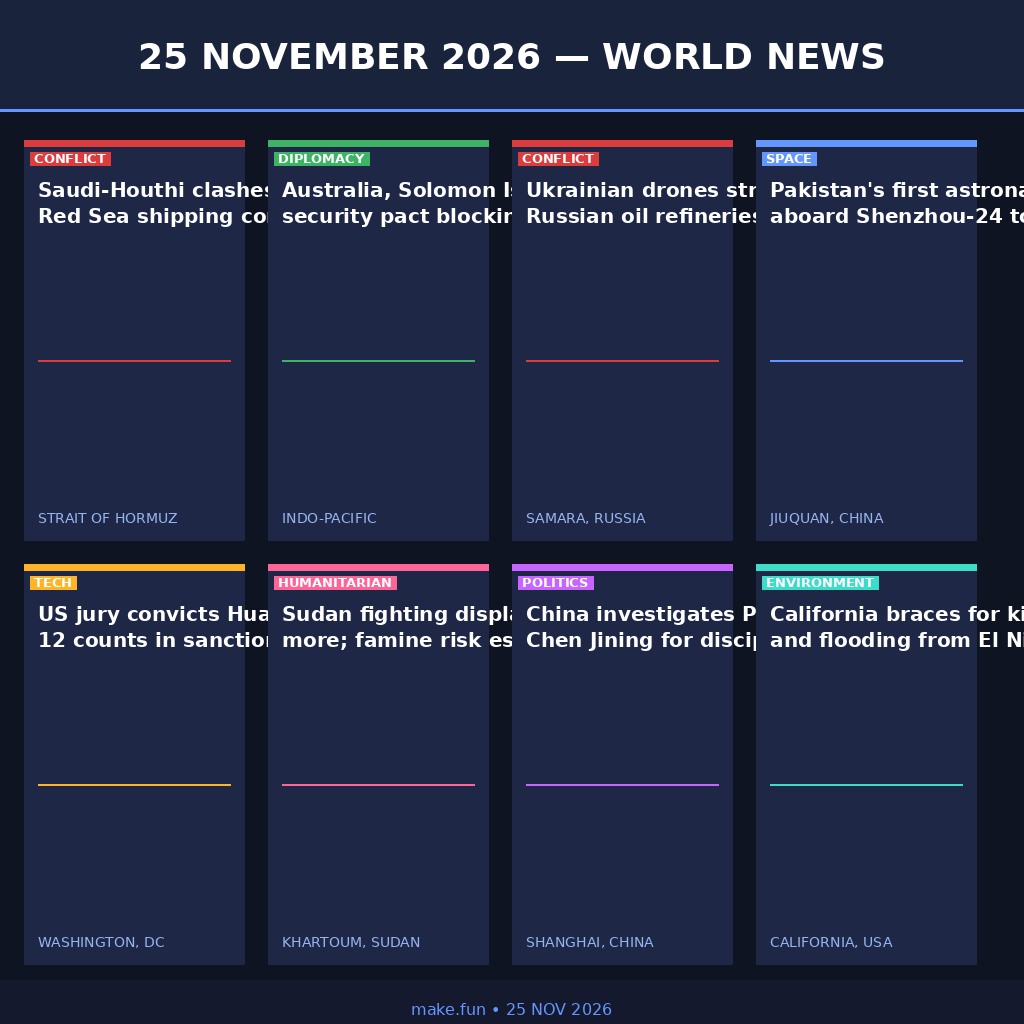
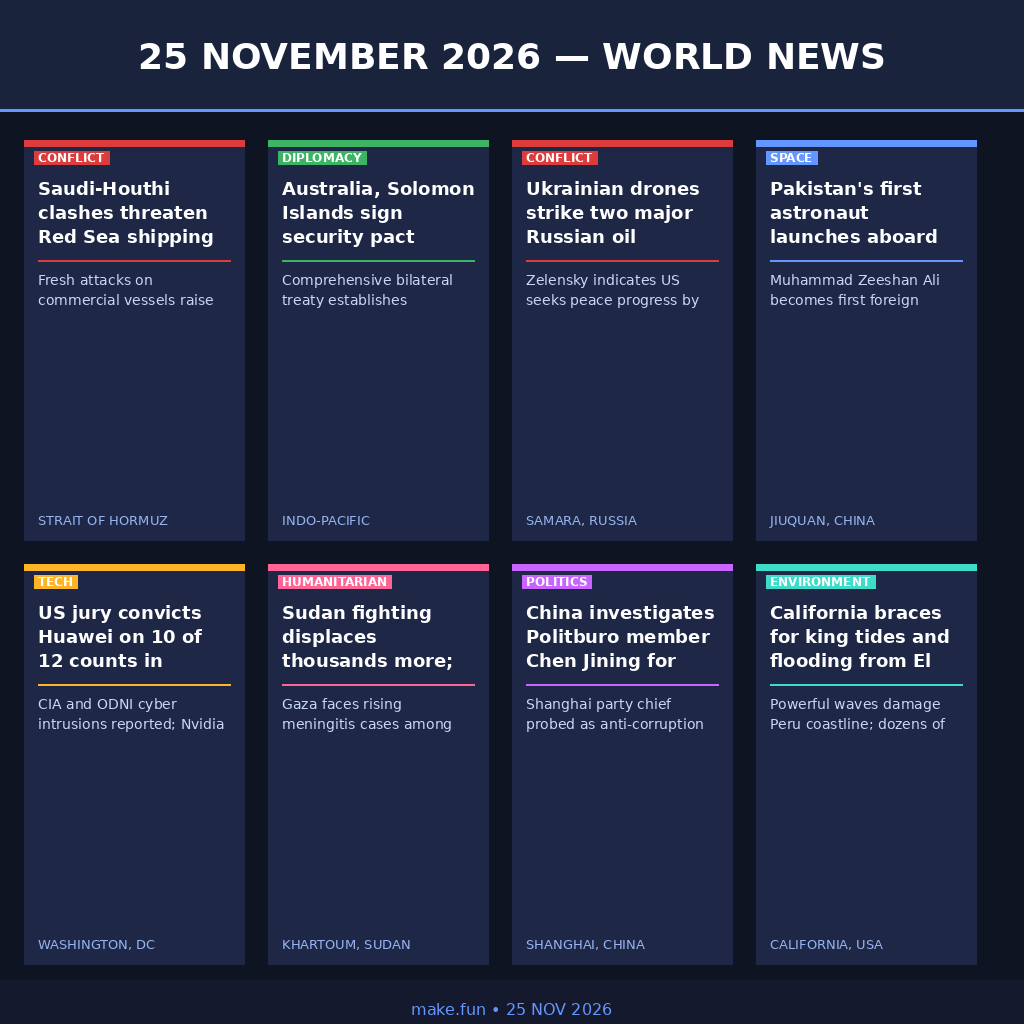
Fix: main.ts ES module __dirname; render_news.py word-wrap headlines + summaries

diff --git a/main.ts b/main.ts
@@ -3,10 +3,11 @@
 
 import { copyFileSync } from 'node:fs';
 import { join } from 'node:path';
+import { fileURLToPath } from 'node:url';
 
+const SRC_PATH = fileURLToPath(new URL('./entry.png', import.meta.url));
 const OUT_DIR = process.env.MAKEFUN_OUTPUT_DIR ?? '/output';
 const OUT_PATH = join(OUT_DIR, 'entry.png');
-const SRC_PATH = join(__dirname, 'entry.png');
 
 function main(): void {
   copyFileSync(SRC_PATH, OUT_PATH);

diff --git a/render_news.py b/render_news.py
@@ -7,6 +7,7 @@ Uses DejaVu Sans font. Deterministic output.
 from PIL import Image, ImageDraw, ImageFont
 import os
 import hashlib
+import textwrap
 
 WIDTH = 1024
 HEIGHT = 1024
@@ -22,57 +23,73 @@ TEXT_MUTED = (150, 180, 240)
 ATTRIB_BG = (20, 25, 45)
 ACCENT_BLUE = (100, 150, 255)
 
-# News stories with factual short headlines
+# News stories with factual headlines and short summaries
 STORIES = [
     {
-        "headline": "Saudi-Houthi clashes threaten\nRed Sea shipping corridor",
+        "headline": "Saudi-Houthi clashes threaten Red Sea shipping corridor",
+        "summary": "Fresh attacks on commercial vessels raise energy security concerns; Saudi-Houthi tensions threaten the vital Red Sea corridor.",
         "category": "CONFLICT",
         "location": "STRAIT OF HORMUZ",
         "accent": (220, 60, 60),
     },
     {
-        "headline": "Australia, Solomon Islands sign\nsecurity pact blocking foreign bases",
+        "headline": "Australia, Solomon Islands sign security pact blocking foreign bases",
+        "summary": "Comprehensive bilateral treaty establishes Canberra as principal security partner, prohibiting foreign military bases in the islands.",
         "category": "DIPLOMACY",
         "location": "INDO-PACIFIC",
         "accent": (60, 180, 100),
     },
     {
-        "headline": "Ukrainian drones strike two major\nRussian oil refineries in Samara",
+        "headline": "Ukrainian drones strike two major Russian oil refineries in Samara",
+        "summary": "Zelensky indicates US seeks peace progress by January; EU delegation to join talks as energy infrastructure hit.",
         "category": "CONFLICT",
         "location": "SAMARA, RUSSIA",
         "accent": (220, 60, 60),
     },
     {
-        "headline": "Pakistan's first astronaut launches\naboard Shenzhou-24 to Tiangong",
+        "headline": "Pakistan's first astronaut launches aboard Shenzhou-24 to Tiangong",
+        "summary": "Muhammad Zeeshan Ali becomes first foreign astronaut in China's crewed space programme, marking historic cooperation.",
         "category": "SPACE",
         "location": "JIUQUAN, CHINA",
         "accent": (100, 150, 255),
     },
     {
-        "headline": "US jury convicts Huawei on 10 of\n12 counts in sanctions case",
+        "headline": "US jury convicts Huawei on 10 of 12 counts in sanctions case",
+        "summary": "CIA and ODNI cyber intrusions reported; Nvidia leadership return sparks export-control controversy amid tech tensions.",
         "category": "TECH",
         "location": "WASHINGTON, DC",
         "accent": (255, 180, 40),
     },
     {
-        "headline": "Sudan fighting displaces thousands\nmore; famine risk escalates",
+        "headline": "Sudan fighting displaces thousands more; famine risk escalates",
+        "summary": "Gaza faces rising meningitis cases among infants; Yemen prices surge amid renewed hostilities worsening humanitarian crisis.",
         "category": "HUMANITARIAN",
         "location": "KHARTOUM, SUDAN",
         "accent": (255, 100, 150),
     },
     {
-        "headline": "China investigates Politburo member\nChen Jining for discipline violations",
+        "headline": "China investigates Politburo member Chen Jining for discipline violations",
+        "summary": "Shanghai party chief probed as anti-corruption drive continues; signals shifting power dynamics ahead of leadership meetings.",
         "category": "POLITICS",
         "location": "SHANGHAI, CHINA",
         "accent": (200, 100, 255),
     },
     {
-        "headline": "California braces for king tides\nand flooding from El Nino surge",
+        "headline": "California braces for king tides and flooding from El Nino surge",
+        "summary": "Powerful waves damage Peru coastline; dozens of ports closed as climate patterns intensify coastal flood risks.",
         "category": "ENVIRONMENT",
         "location": "CALIFORNIA, USA",
         "accent": (60, 220, 200),
     },
 ]
+
+# Card dimensions
+COL_WIDTH = 220
+ROW_HEIGHT = 400
+GAP = 24
+START_Y = 140
+CARD_PADDING = 14
+HEADLINE_MAX_WIDTH = COL_WIDTH - 2 * CARD_PADDING  # 192px
 
 
 def load_fonts():
@@ -81,25 +98,50 @@ def load_fonts():
     fonts = {}
     try:
         fonts["title"] = ImageFont.truetype(os.path.join(font_dir, "DejaVuSans-Bold.ttf"), 36)
-        fonts["headline"] = ImageFont.truetype(os.path.join(font_dir, "DejaVuSans-Bold.ttf"), 20)
-        fonts["category"] = ImageFont.truetype(os.path.join(font_dir, "DejaVuSans-Bold.ttf"), 13)
-        fonts["location"] = ImageFont.truetype(os.path.join(font_dir, "DejaVuSans.ttf"), 14)
+        fonts["headline"] = ImageFont.truetype(os.path.join(font_dir, "DejaVuSans-Bold.ttf"), 18)
+        fonts["summary"] = ImageFont.truetype(os.path.join(font_dir, "DejaVuSans.ttf"), 14)
+        fonts["category"] = ImageFont.truetype(os.path.join(font_dir, "DejaVuSans-Bold.ttf"), 12)
+        fonts["location"] = ImageFont.truetype(os.path.join(font_dir, "DejaVuSans.ttf"), 13)
         fonts["attrib"] = ImageFont.truetype(os.path.join(font_dir, "DejaVuSans.ttf"), 16)
     except OSError:
         # Fallback
         fonts["title"] = ImageFont.load_default()
         fonts["headline"] = ImageFont.load_default()
+        fonts["summary"] = ImageFont.load_default()
         fonts["category"] = ImageFont.load_default()
         fonts["location"] = ImageFont.load_default()
         fonts["attrib"] = ImageFont.load_default()
     return fonts
 
 
-def draw_card(draw, fonts, x0, y0, col_width, row_height, story):
-    """Draw a single news card."""
-    x1 = x0 + col_width
-    y1 = y0 + row_height
+def wrap_text(draw, text, font, max_width):
+    """Wrap text to fit within max_width, return list of lines."""
+    words = text.split()
+    lines = []
+    current_line = []
+
+    for word in words:
+        test_line = " ".join(current_line + [word])
+        bbox = draw.textbbox((0, 0), test_line, font=font)
+        if bbox[2] - bbox[0] <= max_width:
+            current_line.append(word)
+        else:
+            if current_line:
+                lines.append(" ".join(current_line))
+            current_line = [word]
+
+    if current_line:
+        lines.append(" ".join(current_line))
+
+    return lines
+
+
+def draw_card(draw, fonts, x0, y0, story):
+    """Draw a single news card with wrapped headline and summary."""
+    x1 = x0 + COL_WIDTH
+    y1 = y0 + ROW_HEIGHT
     accent = story["accent"]
+    max_text_width = HEADLINE_MAX_WIDTH
 
     # Card background
     draw.rectangle([x0, y0, x1, y1], fill=CARD_BG)
@@ -108,24 +150,33 @@ def draw_card(draw, fonts, x0, y0, col_width, row_height, story):
     draw.rectangle([x0, y0, x1, y0 + 6], fill=accent)
 
     # Category label
-    cat_bbox = draw.textbbox((x0 + 10, y0 + 10), story["category"], font=fonts["category"])
+    cat_text = story["category"]
+    cat_bbox = draw.textbbox((x0 + CARD_PADDING, y0 + 10), cat_text, font=fonts["category"])
     draw.rectangle([cat_bbox[0] - 4, cat_bbox[1] - 2, cat_bbox[2] + 4, cat_bbox[3] + 2],
                    fill=accent)
-    draw.text((x0 + 10, y0 + 10), story["category"], font=fonts["category"], fill=TEXT_WHITE)
+    draw.text((x0 + CARD_PADDING, y0 + 10), cat_text, font=fonts["category"], fill=TEXT_WHITE)
 
-    # Headline (multi-line)
-    headline = story["headline"]
+    # Headline (wrapped)
+    headline_lines = wrap_text(draw, story["headline"], fonts["headline"], max_text_width)
     y_text = y0 + 38
-    for line in headline.split("\n"):
-        draw.text((x0 + 14, y_text), line, font=fonts["headline"], fill=TEXT_WHITE)
-        y_text += 26
+    for line in headline_lines[:3]:  # Max 3 lines for headline
+        draw.text((x0 + CARD_PADDING, y_text), line, font=fonts["headline"], fill=TEXT_WHITE)
+        y_text += 24
 
     # Visual separator line
-    draw.line([(x0 + 14, y0 + 220), (x1 - 14, y0 + 220)], fill=accent, width=2)
+    sep_y = y0 + 120
+    draw.line([(x0 + CARD_PADDING, sep_y), (x1 - CARD_PADDING, sep_y)], fill=accent, width=2)
+
+    # Summary (wrapped, 1-2 lines in middle space)
+    summary_lines = wrap_text(draw, story["summary"], fonts["summary"], max_text_width)
+    y_summary = sep_y + 12
+    for line in summary_lines[:2]:  # Max 2 lines for summary
+        draw.text((x0 + CARD_PADDING, y_summary), line, font=fonts["summary"], fill=TEXT_LIGHT)
+        y_summary += 20
 
     # Location tag at bottom
-    loc_y = y1 - 30
-    draw.text((x0 + 14, loc_y), story["location"], font=fonts["location"],
+    loc_y = y1 - 28
+    draw.text((x0 + CARD_PADDING, loc_y), story["location"], font=fonts["location"],
               fill=TEXT_MUTED)
 
 
@@ -146,20 +197,15 @@ def main():
     draw.line([(0, 110), (WIDTH, 110)], fill=DIVIDER_COLOR, width=3)
 
     # Grid: 4 cols x 2 rows
-    col_width = 220
-    row_height = 400
-    start_y = 140
-    gap = 24
-
     for row in range(2):
         for col in range(4):
             idx = row * 4 + col
             if idx >= len(STORIES):
                 continue
             story = STORIES[idx]
-            x0 = col * (col_width + gap) + gap
-            y0 = start_y + row * (row_height + gap)
-            draw_card(draw, fonts, x0, y0, col_width, row_height, story)
+            x0 = col * (COL_WIDTH + GAP) + GAP
+            y0 = START_Y + row * (ROW_HEIGHT + GAP)
+            draw_card(draw, fonts, x0, y0, story)
 
     # Bottom attribution
     draw.rectangle([0, 980, WIDTH, HEIGHT], fill=ATTRIB_BG)
